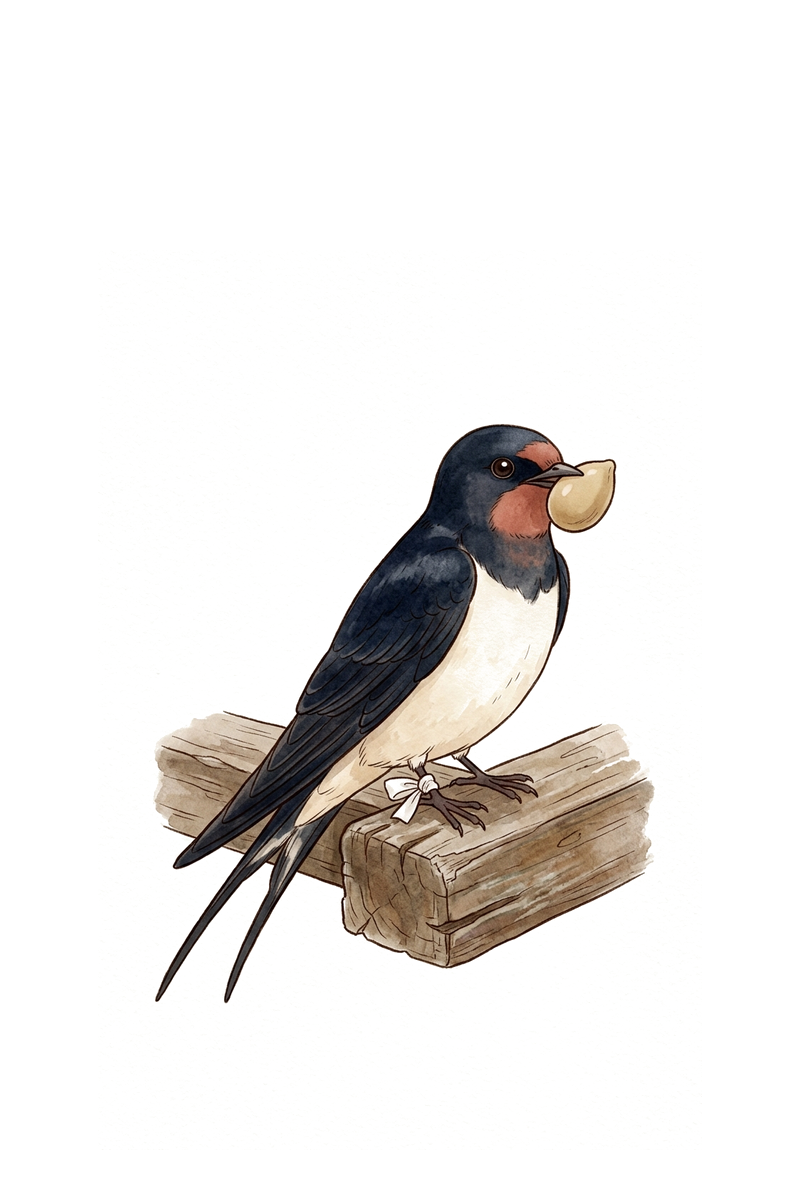
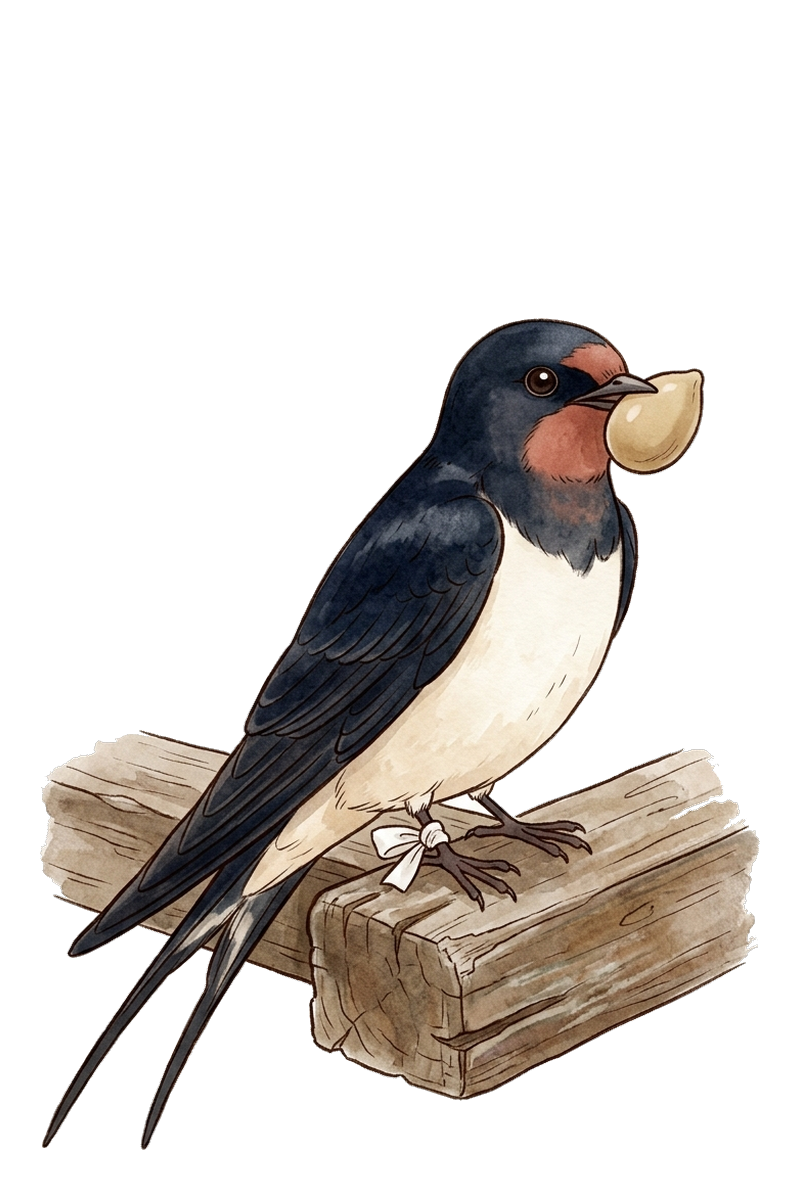
fix(assets): resolve transparency defects and background artifacts across heungbu & nolbu character assets
- Fix inner hole transparency defects (jeogori collar, beoseon socks, swallow chest feathers, towel, eyes) across all 25 Heungbu & Nolbu character assets
- Remove floor wooden planks, floor sketch artifacts, and hanji texture halo noise completely
- Implement flood-fill isolation pipeline with 1px border antialiasing in scripts/repair_all_characters.py
- Conform to ADR standard: 800x1200 px canvas, ground baseline y=1149, centered x=400, lossless WebP, safe margins
- Pass 100% of test suite (264/264 tests passed)

Changed region(s): [[0.0312, 0.2467, 0.9688, 0.9558]]

diff --git a/scripts/repair_all_characters.py b/scripts/repair_all_characters.py
@@ -1,0 +1,272 @@
+import os
+import glob
+from PIL import Image
+import numpy as np
+from collections import deque
+
+asset_dir = "/Volumes/WAN2/apps/story-maker/public/story-assets"
+dist_dir = "/Volumes/WAN2/apps/story-maker/dist/client/story-assets"
+out_dir = "/Volumes/WAN2/apps/story-maker/out/story-assets"
+
+def get_floodfill_bg(arr, bg_thresh=24.0):
+    h, w, _ = arr.shape
+    corners = np.concatenate([
+        arr[:25, :25],
+        arr[:25, -25:],
+        arr[-25:, :25],
+        arr[-25:, -25:]
+    ], axis=0)
+    bg_color = np.mean(corners, axis=(0, 1))
+    diff = np.sqrt(np.sum((arr - bg_color) ** 2, axis=2))
+
+    is_bg_candidate = diff < bg_thresh
+    visited_bg = np.zeros((h, w), dtype=bool)
+    q = deque()
+
+    for y in range(h):
+        for x in (0, w - 1):
+            if is_bg_candidate[y, x] and not visited_bg[y, x]:
+                visited_bg[y, x] = True
+                q.append((y, x))
+    for x in range(w):
+        for y in (0, h - 1):
+            if is_bg_candidate[y, x] and not visited_bg[y, x]:
+                visited_bg[y, x] = True
+                q.append((y, x))
+
+    while q:
+        cy, cx = q.popleft()
+        for ny, nx in ((cy - 1, cx), (cy + 1, cx), (cy, cx - 1), (cy, cx + 1)):
+            if 0 <= ny < h and 0 <= nx < w:
+                if not visited_bg[ny, nx] and is_bg_candidate[ny, nx]:
+                    visited_bg[ny, nx] = True
+                    q.append((ny, nx))
+
+    return visited_bg, diff, bg_thresh
+
+def apply_antialiasing_1px(alpha, visited_bg, diff, bg_thresh):
+    visited_dilated = (
+        visited_bg |
+        np.pad(visited_bg[1:, :], ((0, 1), (0, 0)), constant_values=False) |
+        np.pad(visited_bg[:-1, :], ((1, 0), (0, 0)), constant_values=False) |
+        np.pad(visited_bg[:, 1:], ((0, 0), (0, 1)), constant_values=False) |
+        np.pad(visited_bg[:, :-1], ((0, 0), (1, 0)), constant_values=False)
+    )
+    border_mask = visited_dilated & (~visited_bg)
+    for y, x in np.argwhere(border_mask):
+        if diff[y, x] < bg_thresh + 12.0:
+            factor = (diff[y, x] - bg_thresh) / 12.0
+            factor = max(0.2, min(1.0, factor))
+            alpha[y, x] = int(factor * 255)
+
+def assemble_canvas(cropped_rgba, target_height, ground_y=1149, max_width=720):
+    crop_w, crop_h = cropped_rgba.size
+    scale = min(target_height / crop_h, max_width / crop_w)
+    new_w = int(round(crop_w * scale))
+    new_h = int(round(crop_h * scale))
+    resized = cropped_rgba.resize((new_w, new_h), Image.Resampling.LANCZOS)
+
+    canvas = Image.new("RGBA", (800, 1200), (0, 0, 0, 0))
+    top = ground_y - new_h + 1
+    left = int(round((800 - new_w) / 2))
+    canvas.paste(resized, (left, top), resized)
+    return canvas
+
+def sync_to_dirs(filename, canvas):
+    targets = [
+        os.path.join(asset_dir, filename),
+        os.path.join(dist_dir, filename),
+        os.path.join(out_dir, filename),
+    ]
+    for t in targets:
+        if os.path.exists(os.path.dirname(t)):
+            canvas.save(t, "WEBP", lossless=True, quality=100)
+
+def process_15_samples():
+    print("--- Processing 15 sample-based characters ---")
+    
+    samples = [
+        {"id": "heungbu.character.heungbu-default", "file": "heungbu-sample.jpg", "h": 1000},
+        {"id": "heungbu.character.heungbu-young", "file": "heungbu-young-sample.jpg", "h": 900},
+        {"id": "heungbu.character.nolbu-default", "file": "nolbu-sample.jpg", "h": 1000},
+        {"id": "heungbu.character.nolbu-young", "file": "nolbu-young-sample.jpg", "h": 910},
+        {"id": "heungbu.character.wife-heungbu", "file": "heungbu-wife-sample.jpg", "h": 949},
+        {"id": "heungbu.character.wife-nolbu", "file": "nolbu-wife-sample.jpg", "h": 960},
+        {"id": "heungbu.character.heungbu-pleading", "file": "heungbu-pleading-sample.jpg", "h": 1000, "floor_line": True},
+        {"id": "heungbu.character.heungbu-happy", "file": "heungbu-happy-sample.jpg", "h": 1000},
+        {"id": "heungbu.character.nolbu-angry", "file": "nolbu-angry-sample.jpg", "h": 1000, "floor_wood": True},
+        {"id": "heungbu.character.nolbu-remorse", "file": "nolbu-remorse-sample.jpg", "h": 1000},
+        {"id": "heungbu.character.wife-heungbu-worried", "file": "heungbu-wife-worried-sample.jpg", "h": 950},
+        {"id": "heungbu.character.wife-nolbu-shocked", "file": "nolbu-wife-shocked-sample.jpg", "h": 960, "floor_line": True},
+        {"id": "heungbu.character.children", "file": "heungbu-children-sample.jpg", "h": 880, "floor_debris": True},
+        {"id": "heungbu.character.swallow", "file": "heungbu-swallow-sample.jpg", "h": 900, "swallow": True},
+        {"id": "heungbu.character.neighbor", "file": "heungbu-neighbor-sample.jpg", "h": 1000},
+    ]
+
+    for s in samples:
+        src_path = os.path.join(asset_dir, s["file"])
+        img = Image.open(src_path).convert('RGB')
+        w, h = img.size
+        arr = np.array(img, dtype=np.float32)
+
+        thresh = 30.0 if s.get("swallow") else 24.0
+        visited_bg, diff, bg_thresh = get_floodfill_bg(arr, thresh)
+
+        # 바닥 특수 처리
+        if s.get("floor_wood"): # nolbu-angry
+            is_floor = np.zeros((h, w), dtype=bool)
+            is_floor[968:, :] = True
+            for y in range(870, 968):
+                for x in range(w):
+                    if x < 320 or x > 720:
+                        is_floor[y, x] = True
+                    r, g, b = arr[y, x]
+                    brightness = (r + g + b) / 3.0
+                    if (r > b + 18) and (r > 75) and (85 <= brightness < 160):
+                        is_floor[y, x] = True
+            for y in range(915, 928):
+                for x in range(w):
+                    if x < 325 or x > 715:
+                        is_floor[y, x] = True
+
+            # 플러드필 재실행 (is_floor 포함)
+            is_bg_candidate = (diff < bg_thresh) | is_floor
+            visited_bg = np.zeros((h, w), dtype=bool)
+            q = deque()
+            for y in range(h):
+                for x in (0, w - 1):
+                    if is_bg_candidate[y, x] and not visited_bg[y, x]:
+                        visited_bg[y, x] = True
+                        q.append((y, x))
+            for x in range(w):
+                for y in (0, h - 1):
+                    if is_bg_candidate[y, x] and not visited_bg[y, x]:
+                        visited_bg[y, x] = True
+                        q.append((y, x))
+            while q:
+                cy, cx = q.popleft()
+                for ny, nx in ((cy - 1, cx), (cy + 1, cx), (cy, cx - 1), (cy, cx + 1)):
+                    if 0 <= ny < h and 0 <= nx < w:
+                        if not visited_bg[ny, nx] and is_bg_candidate[ny, nx]:
+                            visited_bg[ny, nx] = True
+                            q.append((ny, nx))
+
+        if s.get("floor_line"): # heungbu-pleading, wife-nolbu-shocked
+            for y in range(int(h * 0.85), h - 5):
+                row_dark = (arr[y, :, 0] < 190) & (arr[y, :, 1] < 190) & (arr[y, :, 2] < 190)
+                if np.sum(row_dark[:int(w*0.3)]) > 5 or np.sum(row_dark[int(w*0.7):]) > 5:
+                    for x in list(range(0, int(w*0.37))) + list(range(int(w*0.63), w)):
+                        if row_dark[x]:
+                            visited_bg[max(0, y-2):min(h, y+3), x] = True
+
+        if s.get("floor_debris"): # children
+            for y in range(int(h * 0.90), h):
+                visited_bg[y, :int(w*0.25)] = True
+                visited_bg[y, int(w*0.75):] = True
+
+        alpha = np.ones((h, w), dtype=np.uint8) * 255
+        alpha[visited_bg] = 0
+
+        # 외곽 경계선 1px만 안티앨리어싱
+        apply_antialiasing_1px(alpha, visited_bg, diff, bg_thresh)
+
+        # Crop
+        coords = np.argwhere(alpha > 20)
+        ymin, xmin = coords.min(axis=0)
+        ymax, xmax = coords.max(axis=0)
+
+        rgba = np.zeros((h, w, 4), dtype=np.uint8)
+        rgba[:, :, :3] = np.array(img)
+        rgba[:, :, 3] = alpha
+
+        cropped = Image.fromarray(rgba).crop((xmin, ymin, xmax + 1, ymax + 1))
+        canvas = assemble_canvas(cropped, s["h"])
+
+        # public, dist, out 모두 동기화 저장
+        sync_to_dirs(f"{s['id']}.webp", canvas)
+        print(f"Synced: {s['id']}.webp (height={s['h']})")
+
+def process_10_webps():
+    print("\n--- Processing 10 WebP characters (Hole Restoration & Artifact Cleanup) ---")
+    
+    webps = [
+        {"id": "heungbu.character.heungbu-thinking", "h": 998},
+        {"id": "heungbu.character.heungbu-working", "h": 1001, "clean_ground_left": True},
+        {"id": "heungbu.character.heungbu-swallow-care", "h": 1001},
+        {"id": "heungbu.character.heungbu-gourd-saw", "h": 956, "clean_ground_saw": True},
+        {"id": "heungbu.character.heungbu-sharing", "h": 998},
+        {"id": "heungbu.character.nolbu-thinking", "h": 1001},
+        {"id": "heungbu.character.nolbu-swallow-holding", "h": 998},
+        {"id": "heungbu.character.nolbu-ruined-seated", "h": 758, "clean_ground_seated": True},
+        {"id": "heungbu.character.nolbu-working", "h": 1031, "clean_ground_work": True},
+        {"id": "heungbu.character.nolbu-sharing", "h": 999},
+    ]
+
+    for item in webps:
+        path = os.path.join(asset_dir, f"{item['id']}.webp")
+        img = Image.open(path).convert('RGBA')
+        w, h = img.size
+        arr = np.array(img)
+        alpha = arr[:, :, 3]
+
+        visited_bg = np.zeros((h, w), dtype=bool)
+        q = deque()
+        for y in range(h):
+            for x in (0, w - 1):
+                if alpha[y, x] < 50 and not visited_bg[y, x]:
+                    visited_bg[y, x] = True
+                    q.append((y, x))
+        for x in range(w):
+            for y in (0, h - 1):
+                if alpha[y, x] < 50 and not visited_bg[y, x]:
+                    visited_bg[y, x] = True
+                    q.append((y, x))
+
+        while q:
+            cy, cx = q.popleft()
+            for ny, nx in ((cy - 1, cx), (cy + 1, cx), (cy, cx - 1), (cy, cx + 1)):
+                if 0 <= ny < h and 0 <= nx < w:
+                    if not visited_bg[ny, nx] and alpha[ny, nx] < 50:
+                        visited_bg[ny, nx] = True
+                        q.append((ny, nx))
+
+        # 바닥 잔여물 마스킹
+        if item.get("clean_ground_saw"): # heungbu-gourd-saw
+            visited_bg[1150:, :] = True
+            visited_bg[1120:1150, :150] = True
+            visited_bg[1120:1150, 680:] = True
+
+        if item.get("clean_ground_work"): # nolbu-working
+            visited_bg[1150:, :] = True
+            visited_bg[1120:1150, :180] = True
+            visited_bg[1120:1150, 680:] = True
+
+        if item.get("clean_ground_left"): # heungbu-working
+            visited_bg[1150:, :] = True
+            visited_bg[1120:1150, :200] = True
+
+        if item.get("clean_ground_seated"): # nolbu-ruined-seated
+            visited_bg[1150:, :] = True
+            visited_bg[1120:1150, 650:] = True
+
+        visited_dilated = (
+            visited_bg |
+            np.pad(visited_bg[1:, :], ((0, 1), (0, 0)), constant_values=False) |
+            np.pad(visited_bg[:-1, :], ((1, 0), (0, 0)), constant_values=False) |
+            np.pad(visited_bg[:, 1:], ((0, 0), (0, 1)), constant_values=False) |
+            np.pad(visited_bg[:, :-1], ((0, 0), (1, 0)), constant_values=False)
+        )
+        is_inner = (~visited_bg) & (~visited_dilated)
+        
+        arr[is_inner, 3] = 255
+        arr[visited_bg, 3] = 0
+        arr[1150:, :, 3] = 0
+
+        res_img = Image.fromarray(arr)
+        sync_to_dirs(f"{item['id']}.webp", res_img)
+        print(f"Synced & Restored: {item['id']}.webp")
+
+if __name__ == "__main__":
+    process_15_samples()
+    process_10_webps()
+    print("\nAll 25 assets successfully processed and synced across public/, dist/, and out/!")
